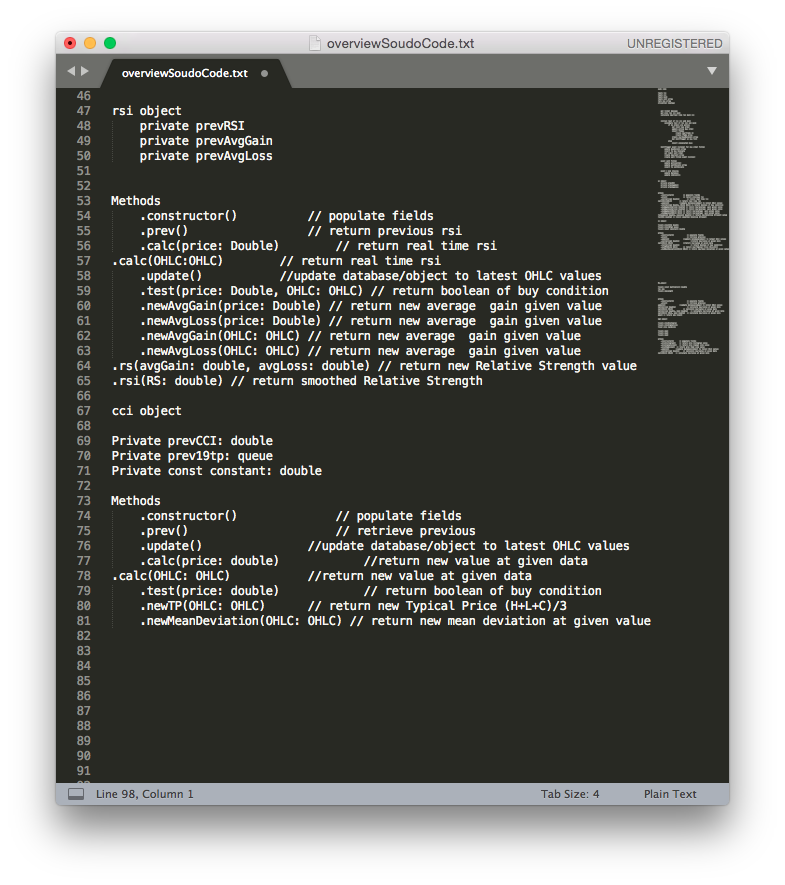
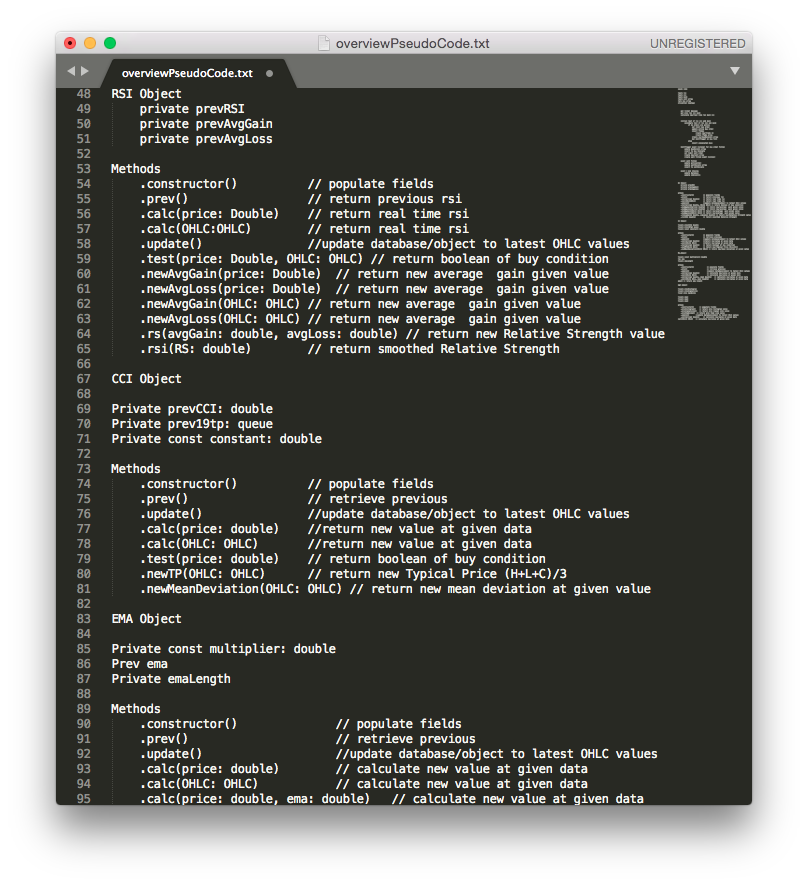
Add links

diff --git a/portfolio/bot.html b/portfolio/bot.html
@@ -100,7 +100,7 @@
 					<div id="text-main" class="col-5 text-main">
 						<h1>Bitcoin Trading Bot</h1>
 						<p class="author">AWS Bot<span class="date">June 2018</span></p>
-						<p>I started this project at the height of bitcoin's prevalence in late 2017. My idea to make the Bitcoin Trading Bot was born out of my troubled attempts to day trade.</p>
+						<p>I started this project at the height of bitcoin's prevalence in late 2017. My idea to make the Bitcoin Trading Bot was born out of my troubled attempts to day trade. View full code <a href="https://github.com/colbygilbert95/Bitcoin-Trading-Bot">here</a>.</p>
 					</div>
 					<div id="img-main" class="col-7 align-c">
 						<img class="major preload" src="http://www.colbygilbert.com/portfolio/images/botcover.jpg" alt="robot piont at bitcoin logo">
@@ -142,7 +142,7 @@
 									<li>Initialization process to ensure the bot is in sync with market data.</li>
 									<li>Fail-safes to handle errors and stop trading to prevent losing money from a fatality program.</li>
 								</ul>
-								<p>While the list felt quite daunting at first,  I knew, as with any lofty project, I just needed to start somewhere figure out the rest as I go. The three key challenge arose as I developed were 1) creating technical indicators, 2) designing my database, and 3) backtesting my trading strategy. I discuss these in detail below.</p>
+								<p>While the list felt quite daunting at first, I start with writing out some <a href="https://github.com/colbygilbert95/Bitcoin-Trading-Bot/blob/master/overviewPseudoCode.txt">pseudo code</a> (above) to clarify how the bot would run. The three key challenge arose as I developed were 1) creating technical indicators, 2) designing my database, and 3) backtesting my trading strategy. I discuss these in detail below.</p>
 							</div>
 						</div>
 					</div>
@@ -157,8 +157,8 @@
 						<div class="col-12">
 							<div class="text-center">
 								<h2>Technical Indicators</h2>
-								<p>I chose to start the project by creating the technical indicators. I knew wanted the MACD (Moving Average Convergence Divergence), CCI (Commodity Channel Index), and RSI (Relative Strength Index). Calculating these also require the SMA (Simple Moving Average) and EMA (Exponential Moving Average) for my trading strategy.</p> 
-								<p>I looked all over GitHub for a library that already had these built out in JavaScript but to no avail. After completing a few of them, I then found a technical indicator library (link). I discovered the exact type of library I was looking for two months prior. Although my version was optimized to my needs, I chose to switch to the new library. The new library had many features and over thirty indicators already built to be used immediately. I recognized this would minimize my future development cost when I wanted to add a new unforeseen feature.</p>
+								<p>I chose to start the project by creating the technical indicators. I knew wanted the <a href="https://stockcharts.com/school/doku.php?id=chart_school:technical_indicators:moving_average_convergence_divergence_macd">MACD (Moving Average Convergence Divergence)</a>, <a href="https://stockcharts.com/school/doku.php?id=chart_school:technical_indicators:commodity_channel_index_cci">CCI (Commodity Channel Index)</a>, and <a href="https://stockcharts.com/school/doku.php?id=chart_school:technical_indicators:relative_strength_index_rsi">RSI (Relative Strength Index)</a>. Calculating these also require the <a href="https://www.investopedia.com/terms/s/sma.asp">SMA (Simple Moving Average)</a> and <a href="https://stockcharts.com/school/doku.php?id=chart_school:technical_indicators:moving_averages">EMA (Exponential Moving Average)</a> for my trading strategy.</p> 
+								<p>I looked all over GitHub for a library that already had these built out in JavaScript but to no avail. After completing a few of them (view code <a hef="https://github.com/colbygilbert95/Bitcoin-Trading-Bot/tree/master/custom-indicators">here</a>), I then found this technical indicator library. I discovered the exact type of library I was looking for two months prior. Although my version was optimized to my needs, I chose to switch to the new library. The new library had many features and over thirty indicators already built to be used immediately. I recognized this would minimize my future development cost when I wanted to add a new unforeseen feature. Above is <a href="https://github.com/colbygilbert95/Bitcoin-Trading-Bot/blob/master/custom-indicators/Indicator.ts">Indicator.ts</a>, an interface I created to implement my various indicators. </p>
 								<p>Once I had a solid set of indicators to work with an expansive set of tools for making bots, I was able to quickly get a workable draft down. This phase of the project provided the opportunity to learn NodeJS and Typescript.</p>
 							</div>
 						</div>
@@ -175,7 +175,7 @@
 							<div class="text-center">
 								<h2>Database Design</h2>
 								<p>The bot required a database to handle the storage of trade data, historical data and Indicator values. I wrote up a schema for my database and met up with a previous professor for review. He assisted me with some implementation issues I was struggling with. First, he recommended that I remove all tables that store indicator technical indicator values.</p> 
-								<p>He also provided insight that if had a longer initialization process, I could remove the waste of multiples table per indicator and simplify the indicator table to one table that contained BTC-USD historical data. The second implementation issue we solved is which DBMS I should use. I was undecided about using SQLite or a bigger DB like Azure. After eliminating my redundant tables, SQLite was the clear winner due to its ease of use and compatibility to a bot written in NodeJS. Here is my schema before our meeting and the schema that was implemented.</p>
+								<p>He also provided insight that if had a longer initialization process, I could remove the waste of multiples table per indicator and simplify the indicator table to one table that contained BTC-USD historical data. The second implementation issue we solved is which DBMS I should use. I was undecided about using SQLite or a bigger DB like Azure. After eliminating my redundant tables, SQLite was the clear winner due to its ease of use and compatibility to a bot written in NodeJS. Above is the entity relationship diagram of my schema before our meeting. View full database code <a href="https://github.com/colbygilbert95/Bitcoin-Trading-Bot/tree/master/db-design">here</a>.</p>
 							</div>
 						</div>
 					</div>

diff --git a/portfolio/db.html b/portfolio/db.html
@@ -99,7 +99,7 @@
 					<div id="text-main" class="col-5 text-main">
 						<h1>Databases</h1>
 						<p class="author">Class<span class="date">April 2017</span></p>
-						<p>Encompassing class that taught me the fundamentals of modern data management. See all my code for this class on GitHub.</p>
+						<p>Encompassing class that taught me the fundamentals of modern data management. See all my code for this class on <a href="https://github.com/colbygilbert95/database-systems">GitHub</a>.</p>
 						</div>
 						<div id="img-main" class="col-7 align-c">
 							<img class="major preload" src="http://www.colbygilbert.com/portfolio/images/dbcover.jpg" alt="database illustration">
@@ -118,7 +118,7 @@
 							<div class="text-center nomargin">
 								<h2>Expansive Learning</h2>	
 								<p>I learned about data modeling, query languages, transactions, performance tuning, building database applications, large-scale data processing, and many other topics. We started with simple queries and worked our way up to distributed query processing on complex flight data using Amazon databases. The class focused on learning how to use these technologies and implementing them effectively. By the end of the course, I had an understanding of how much of the real-world databases that touch our daily lives are designed, built, and maintained.</p>
-								<p>Specifically, we spent a significant amount of time on schema design and implementation, use Boyce-Codd normal form to identify and remove functional dependencies, SQL syntax that runs all these technologies, dabbled in NoSQL systems like AsterixDB. After this class SQLite has become my daily driver through implementation in my bitcoin trading bot (click the link to check that project out) for storing the historical, technical indicator and trade data. My professor was fantastic and an ex-Google employee who is now doing graduate work in quantum computing theory.</p>
+								<p>Specifically, we spent a significant amount of time on schema design and implementation, use Boyce-Codd normal form to identify and remove functional dependencies, SQL syntax that runs all these technologies, dabbled in NoSQL systems like AsterixDB. After this class SQLite has become my daily driver through implementation in my bitcoin trading bot (click the link to check that project out) for storing the historical, technical indicator and trade data. My professor was fantastic and an ex-Google employee who is now doing graduate work in quantum computing theory. See all my code for this class on <a href="https://github.com/colbygilbert95/database-systems">GitHub</a>.</p>
 							</div>
 						</div>
 					</div>

diff --git a/portfolio/sorting.html b/portfolio/sorting.html
@@ -99,7 +99,7 @@
 					<div id="text-main" class="col-5 text-main">
 						<h1>Sorting</h1>
 						<p class="author">Class Work<span class="date">February 2017</span></p>
-						<p>Used comparison sorting algorithms, selection and merge sort to unscramble pieces of images downloaded from a remote server.</p>
+						<p>Used comparison sorting algorithms, selection and merge sort to unscramble pieces of images downloaded from a remote server. See all my code for this assignment on <a href="https://github.com/colbygilbert95/data-structures-algorithms/tree/master/Sorting">GitHub</a>.</p>
 						</div>
 						<div id="img-main" class="col-7 align-c">
 							<img class="major preload" src="http://www.colbygilbert.com/portfolio/sorting/images/explain.png" alt="front view of bookshelf">
@@ -118,8 +118,8 @@
 							<div class="text-center nomargin">
 								<h2>The Process</h2>	
 								<p>For this assignment, I compared the performance of two sorting algorithms, selection and merge sort. In order to accomplish this, I implemented both sorting algorithms for Integers. This was a required starting point because it was much easier to debug and test my code on Integers.</p>
-								<p>Once my sorts were working with integers, I then implemented both sorting algorithms for the Packet class that was provided to me. Part of my Packet implementation required a <a href="./sorting/PacketComparator.java">PacketComparator.java</a> class that correctly compares Packets by Major and Minor indexes, as seen above.</p>
-								<p>After completing my <a href="./sorting/PacketSorter.java">PacketSorter.java</a> a implementation. I was able to use the code provided to me, along with my sorting algorithms, to unscramble the pieces I received from the server. The revealed image was the cute little puppy above.</p>
+								<p>Once my sorts were working with integers, I then implemented both sorting algorithms for the Packet class that was provided to me. Part of my Packet implementation required a <a href="https://github.com/colbygilbert95/data-structures-algorithms/blob/master/Sorting/src/sorting/PacketComparator.java">PacketComparator.java</a> class that correctly compares Packets by Major and Minor indexes, as seen above.</p>
+								<p>After completing my <a href="https://github.com/colbygilbert95/data-structures-algorithms/blob/master/Sorting/src/sorting/PacketSorter.java">PacketSorter.java</a> a implementation. I was able to use the code provided to me, along with my sorting algorithms, to unscramble the pieces I received from the server. The revealed image was the cute little puppy above.</p>
 							</div>
 						</div>
 					</div>

diff --git a/portfolio/graphs.html b/portfolio/graphs.html
@@ -99,7 +99,7 @@
 					<div id="text-main" class="col-5 text-main">
 						<h1>Graphs &amp; Shortest Paths</h1>
 						<p class="author">Classwork<span class="date">February 2017</span></p>
-						<p>For this assignment, I implemented Dijkstra's algorithm for finding the shortest path on a graph representation.</p>
+						<p>For this assignment, I implemented Dijkstra's algorithm for finding the shortest path on a graph representation. See all my code for this assignment on <a href="https://github.com/colbygilbert95/data-structures-algorithms/tree/master/ShortestPath">GitHub</a>.</p>
 					</div>
 					<div id="img-main" class="col-7 align-c">
 						<img class="major preload" src="./graphs/images/main.jpg" alt="front view of bookshelf">
@@ -117,7 +117,7 @@
 						<div class="col-12">
 							<div class="text-center nomargin">
 								<h2>The Process</h2>	
-								<p>I created the classes:  <a href="./graphs/MyGraph.java">MyGraph.java</a>, <a href="./graphs/Edge.java">Edge.java</a>, and <a href="./graphs/Vertex.java">Vertex.java</a>. A major focus for this assignment was "protecting the graph’s abstraction" by leveraging copy-in-copy-out and immutability. MyGraph has a method, shortestPath, that returns the lowest-cost path from it’s first argument to the second argument. Basic functionality includes:</p>
+								<p>I created the classes:  <a href="https://github.com/colbygilbert95/data-structures-algorithms/blob/master/ShortestPath/src/MyGraph.java">MyGraph.java</a>, <a href="https://github.com/colbygilbert95/data-structures-algorithms/blob/master/ShortestPath/src/Edge.java">Edge.java</a>, and <a href="https://github.com/colbygilbert95/data-structures-algorithms/blob/master/ShortestPath/src/Vertex.java">Vertex.java</a>. A major focus for this assignment was "protecting the graph’s abstraction" by leveraging copy-in-copy-out and immutability. MyGraph has a method, shortestPath, that returns the lowest-cost path from it’s first argument to the second argument. Basic functionality includes:</p>
 								<ul class='ul'>
 									<li>If there is no path, return null.</li>
 									<li>If the start and end vertex are equal, return a path containing one vertex and a cost of 0.</li>

diff --git a/portfolio/web.html b/portfolio/web.html
@@ -99,7 +99,7 @@
 					<div id="text-main" class="col-5 text-main">
 						<h1>Web Portfolio</h1>
 						<p class="author">Development<span class="date">January 2018</span></p>
-						<p>Deepening my developing skills by showcasing them. Check out the code on my GitHub.</p>
+						<p>Deepening my developing skills by showcasing them. Check out the code on my <a href="https://github.com/colbygilbert95/portfolio">GitHub</a>.</p>
 					</div>
 					<div id="img-main" class="col-7 align-c">
 						<img class="major preload" src="http://www.colbygilbert.com/portfolio/images/webcover.jpg" alt="screenshot of web portfolio">
@@ -117,7 +117,7 @@
 						<div class="col-12">
 							<div class="text-center nomargin">
 								<h2>Show Myself Off</h2>	
-								<p>Although it may seem a little odd to recursively talk about my web portfolio in my web portfolio, this is a website I am proud of. When I first started this project I only had experience with building basic sites. I am hosting this site through GitHub because it is a static site. You can see all my code here.</p>
+								<p>Although it may seem a little odd to recursively talk about my web portfolio in my web portfolio, this is a website I am proud of. When I first started this project I only had experience with building basic sites. I am hosting this site through GitHub because it is a static site. You can see all my code <a href="https://github.com/colbygilbert95/portfolio">here</a>.</p>
 								<p>It also gave me great reps and deepen my skills in Javascript, HTML, CSS. I used this project to teach myself Git. This has added a little bit of time up front but it has saved me many headaches mid-development. Usually, it saves my butt, when I try and add a new feature but break everything in the process. I also got to exercise some of my design skills and employing my schooling in the Photomedia program. Most of the pictures and assets need heavy editing to look just the way I wanted them to on the site.</p>
 								<p>My proudest improvement to date is removing the contact page and implementing a button that copies my email address to your clipboard. Give it a try and send me an email to say what's up!</p>
 							</div>

diff --git a/portfolio/webclass.html b/portfolio/webclass.html
@@ -99,7 +99,7 @@
 					<div id="text-main" class="col-5 text-main">
 						<h1>Web Programing</h1>
 						<p class="author">Class<span class="date">April 2015</span></p>
-						<p>An introductory course to programming for the World Wide Web. See all my code for this class on GitHub.</p>
+						<p>An introductory course to programming for the World Wide Web. See all my code for this class on <a href="https://github.com/colbygilbert95/web-programing">GitHub</a>.</p>
 						</div>
 						<div id="img-main" class="col-7 align-c">
 							<img class="major preload" src="http://www.colbygilbert.com/portfolio/images/webclasscover.jpg" alt="web dev illustration">
@@ -118,7 +118,7 @@
 							<div class="text-center nomargin">
 								<h2>Learning Foundations</h2>	
 								<p>This class I took as a sophomore probably the most foundational class I took in college. We learned about the relationship between clients and servers, briefly how the internet works, and how web pages are constructed using several technologies including Javascript, HTML, CSS, PHP, asynchronous Javascript (AJAX), and XML.</p>
-								<p>We covered cover a lot of technologies briefly but with an emphasis on meta-learning in the context of learning how to appropriately search for and vet solutions were pivotal when it came time for me to develop this website (link) and the bitcoin trading bot(link). This class also emphasized practicing the skill of reading detailed specifications and writing readable, well documented and structured code.</p>
+								<p>We covered cover a lot of technologies briefly but with an emphasis on meta-learning in the context of learning how to appropriately search for and vet solutions were pivotal when it came time for me to develop this website (link) and the bitcoin trading bot(link). This class also emphasized practicing the skill of reading detailed specifications and writing readable, well documented and structured code.The above snippet of code if from a weather app that uses AJAX to query current weather data, view code <a href="https://github.com/colbygilbert95/web-programing/blob/master/hw8-js-iii/weather.js">here</a>.</p>
 							</div>
 						</div>
 					</div>

diff --git a/portfolio/heap.html b/portfolio/heap.html
@@ -99,7 +99,7 @@
 					<div id="text-main" class="col-5 text-main">
 						<h1>Three Heap</h1>
 						<p class="author">Class Work<span class="date">January 2017</span></p>
-						<p>Objective: Implement a priority queue according to the PriorityQueue.java interface. View my <a href="./heap/ThreeHeap.java">ThreeHeap.java</a>.</p>
+						<p>Objective: Implement a priority queue according to the PriorityQueue.java interface. See all my code for this assignment on <a href="https://github.com/colbygilbert95/data-structures-algorithms/tree/master/ThreeHeap">GitHub</a>.</p>
 					</div>
 					<div id="img-main" class="col-7 align-c">
 						<img class="major preload" src="http://www.colbygilbert.com/portfolio/images/heapcover.jpg" alt="front view of bookshelf">
@@ -118,7 +118,7 @@
 							<div class="text-center nomargin">
 								<h2>The Process</h2>	
 								<p>My three-heap is a min heap like a binary heap, except that each element in the tree structure can have up to three children instead of 2 children. The challenge for this assignment was to maintain the structure-property and the order property of heaps.</p>
-								<p>I implemented my <a href="./heap/ThreeHeap.java">ThreeHeap.java</a> as an array. The minimum benchmark for the buildQueue operation was to run, at slowest O(NLogN) time asymptotically. Extra credit was given for implementing the buildQueue in O(N) time. So I opted for the extra points, using Floyds Algorithm for achieving the O(N) runtime.</p>
+								<p>I implemented my <a href="https://github.com/colbygilbert95/data-structures-algorithms/blob/master/ThreeHeap/src/ThreeHeap.java">ThreeHeap.java</a> as an array. The minimum benchmark for the buildQueue operation was to run, at slowest O(NLogN) time asymptotically. Extra credit was given for implementing the buildQueue in O(N) time. So I opted for the extra points, using Floyds Algorithm for achieving the O(N) runtime.</p>
 								<p>My implementation also grows and shrinks as the number of contents changes. To amortize this cost I resize the array by twice its previous size when full, and shrink the size by half when the array is 25% full (downward trending).</p>
 							</div>
 						</div>

diff --git a/portfolio/lust.html b/portfolio/lust.html
@@ -99,7 +99,7 @@
 					<div id="text-main" class="col-5 text-main">
 						<h1>RunnersLust</h1>
 						<p class="author">Web Business<span class="date">Present</span></p>
-						<p>My first business where sell expertly written training plans to help my customers reach their goals in the 5k, 10k, half-marathon, and marathon. Peruse the web store here.</p>
+						<p>My first business where sell expertly written training plans to help my customers reach their goals in the 5k, 10k, half-marathon, and marathon. Peruse the web store <a href="https://www.runnerslut.com">here</a>.</p>
 					</div>
 					<div id="img-main" class="col-7 align-c">
 						<img class="major preload" src="http://www.colbygilbert.com/portfolio/images/lustcover.jpg" alt="screenshot of runners lust website">
@@ -111,7 +111,7 @@
 				<div class="row">	
 					<div class="col-5 text-middle">
 						<h2>Inspiration</h2>
-						<p>As distance runner I have been lucky enough to enjoy a lot of success, earning 5 D1 First Team All-American honors, US Junior 5k Champion, 2016 5k PAC 12 Champion, becoming 1 of 500 Americans ever to break the 4 minute mile barrier, and becoming the owner for 4 new school records. Read my full bio here.</p>
+						<p>As distance runner I have been lucky enough to enjoy a lot of success, earning 5 D1 First Team All-American honors, US Junior 5k Champion, 2016 5k PAC 12 Champion, becoming 1 of 500 Americans ever to break the 4 minute mile barrier, and becoming the owner for 4 new school records. Read my full bio <a href="https://gohuskies.com/roster.aspx?rp_id=6301">here</a>.</p>
 						<p>Through this crazy journey I have amassed a ton of expertise on training methodologies physiologies, and nutrition. Some of my friends have asked me to write training them for various road races. After awhile I realized I could monetize this into a relatively passive business in selling digital training programs on online.</p>	
 					</div>
 					<div class="col-7 align-c">
